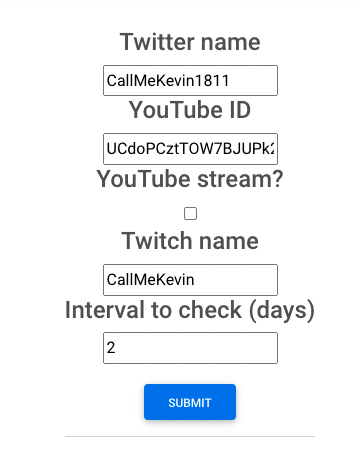
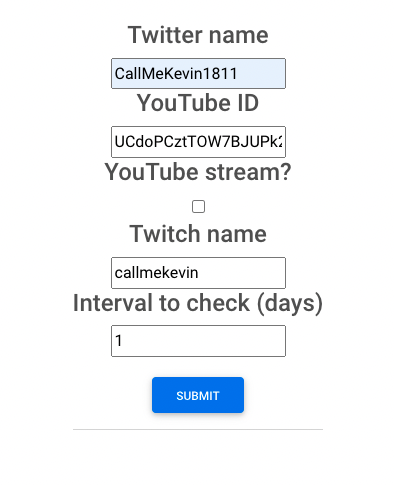
tweak images

Changed region(s): [[0.1818, 0.0297, 0.8788, 0.7712], [0.3636, 0.7712, 0.6667, 0.9195]]

diff --git a/README.md b/README.md
@@ -65,12 +65,17 @@ The last profile "Lofi beats" is a good example of the stream status feature as 
 
 - If they also stream on their youTube account, check the box for the "YouTube stream?" field.
 
-- If they have a twitch account, enter their username in the "Twitch name" field.
+- If they have a twitch account, enter their username in the "Twitch name" field. (**Note the username should be in lowercase**)
 ![twitch image](https://github.com/andrewilf/Just-In/blob/main/readme_image/8.jpg?raw=true)  
-- Type in how far back you want the app to check for Tweets or YouTube videos by the person. Each day is 24 hours, only enter positive integers in this field.
+
+- Type in how far back you want the app to check for Tweets or YouTube videos by the person. Each day is 24 hours, only enter positive integers in this field.  
+
 ![completed form image](https://github.com/andrewilf/Just-In/blob/main/readme_image/9.png?raw=true)  
-- Once the form is completed, click submit and you will be redirected back to the new updated feed should the person's details be correct.
+
+- Once the form is completed, click submit and you will be redirected back to the new updated feed should the person's details be correct.  
+
 ![feed with person image](https://github.com/andrewilf/Just-In/blob/main/readme_image/10.png?raw=true)  
+
 ## Deleting people
 - To delete people from the current profile, click on the "add/remove people" button at the bottom of the "stream status" sidebar.
 
